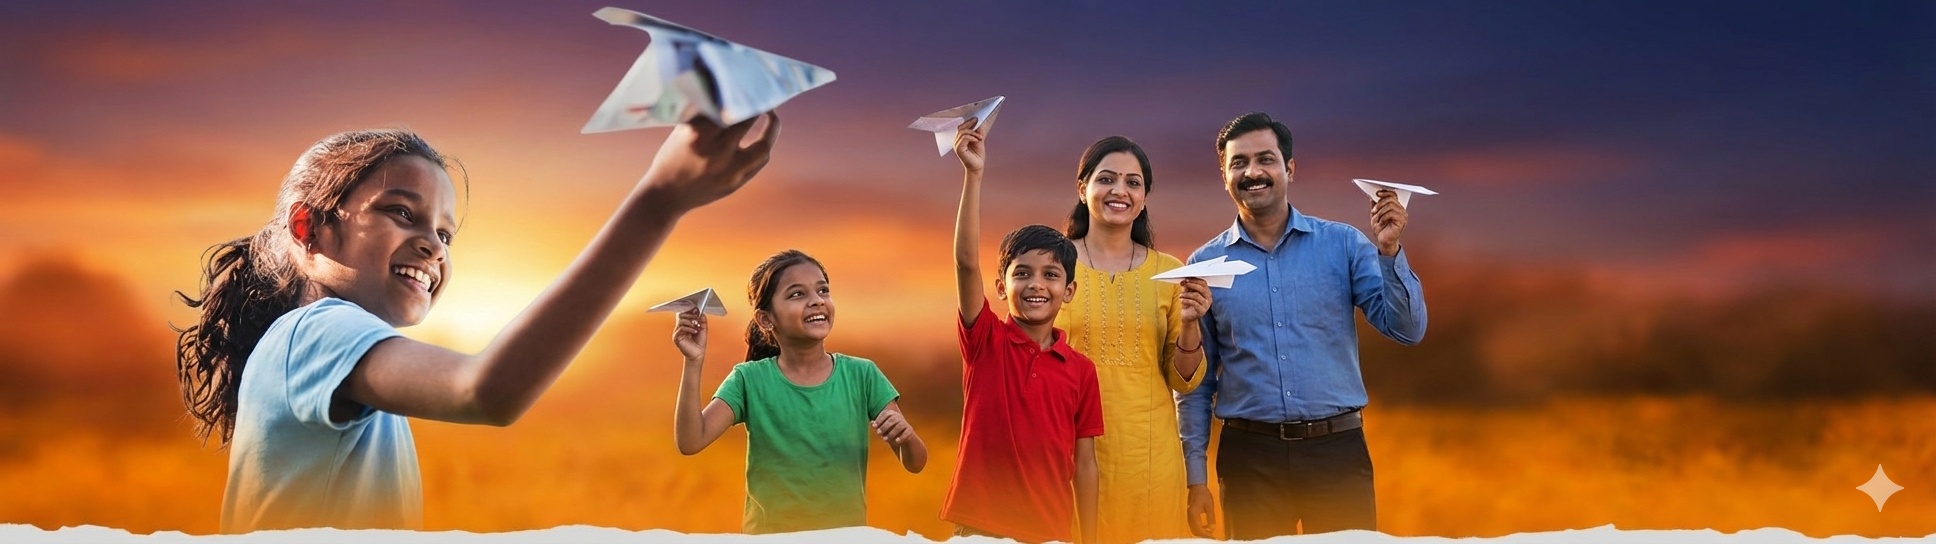
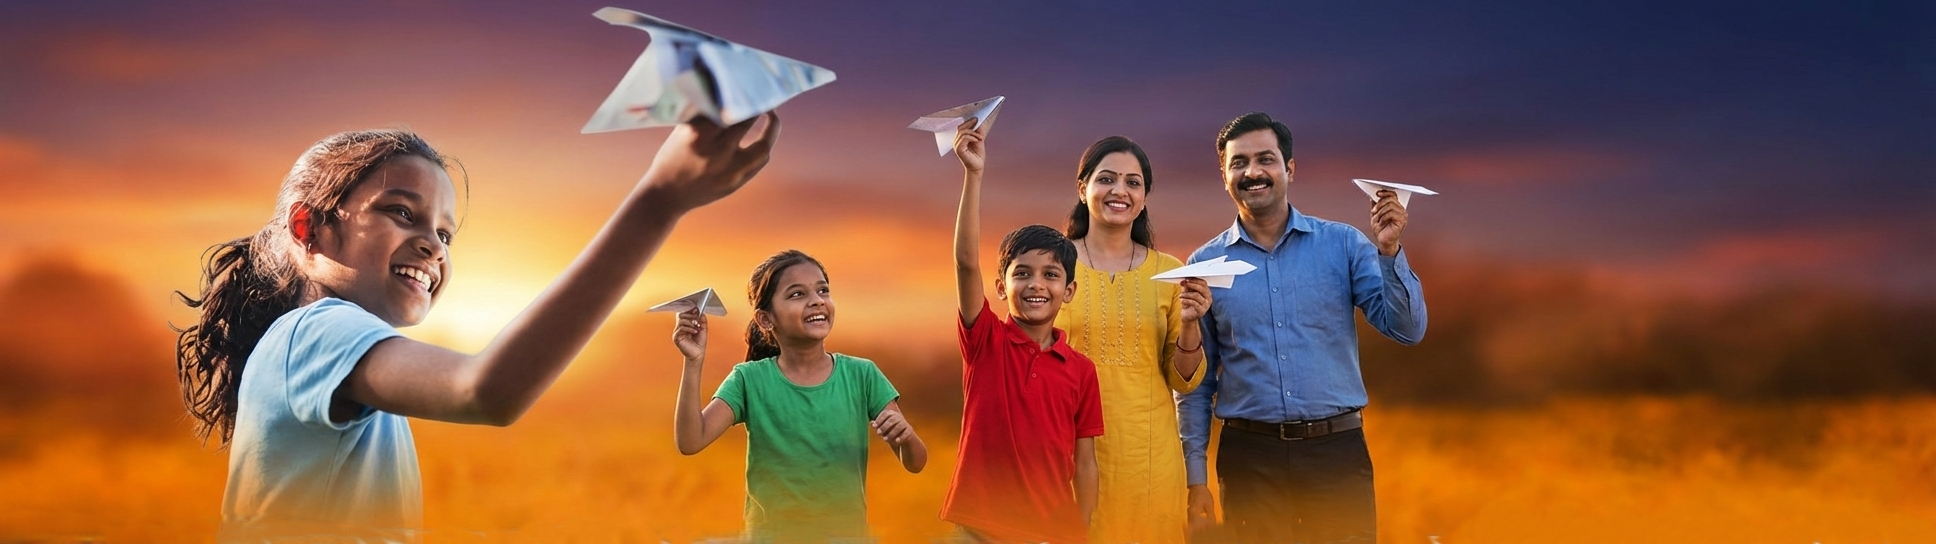
updated

Changed region(s): [[0.0, 0.9375, 0.5579, 1.0], [0.5888, 0.9375, 1.0, 1.0], [0.9607, 0.875, 0.9917, 0.9375]]

diff --git a/projects/rural-children-education/index.php b/projects/rural-children-education/index.php
@@ -166,7 +166,7 @@ define('BASE_URL', '../../');
         <div class="hero-slider-container" id="heroSlider">
             <!-- Reuse slide structure but with project images -->
             <div class="hero-slide active">
-                <img src="<?php echo BASE_URL; ?>assets/images/rural-education-hero.jpg" alt="Rural Education" style="filter: brightness(0.6);">
+                <img src="<?php echo BASE_URL; ?>assets/frontend/promo-banner.png" alt="Rural Education" style="filter: brightness(0.6);">
                 <div class="project-hero-overlay">
                     <div class="container" style="flex-direction: column;">
                         <h1 class="hero-title-project">Educating Rural Children</h1>
